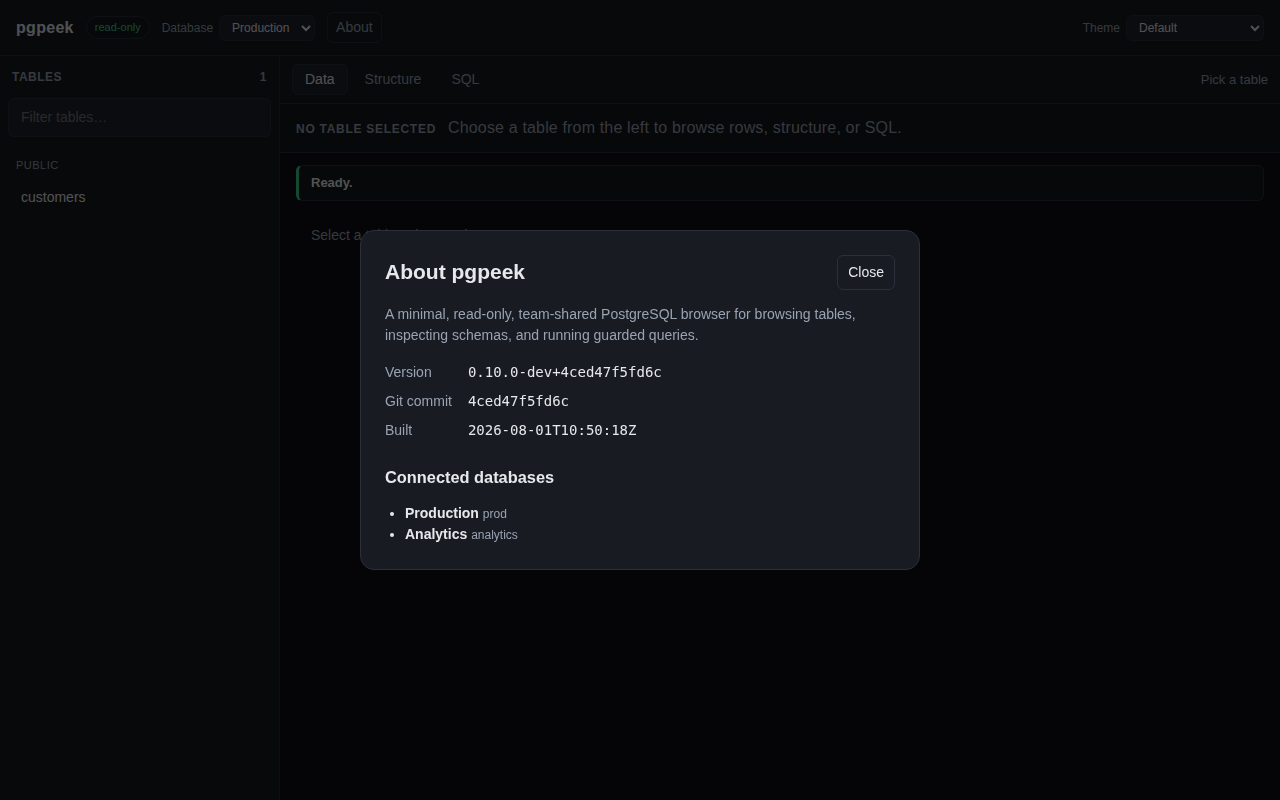
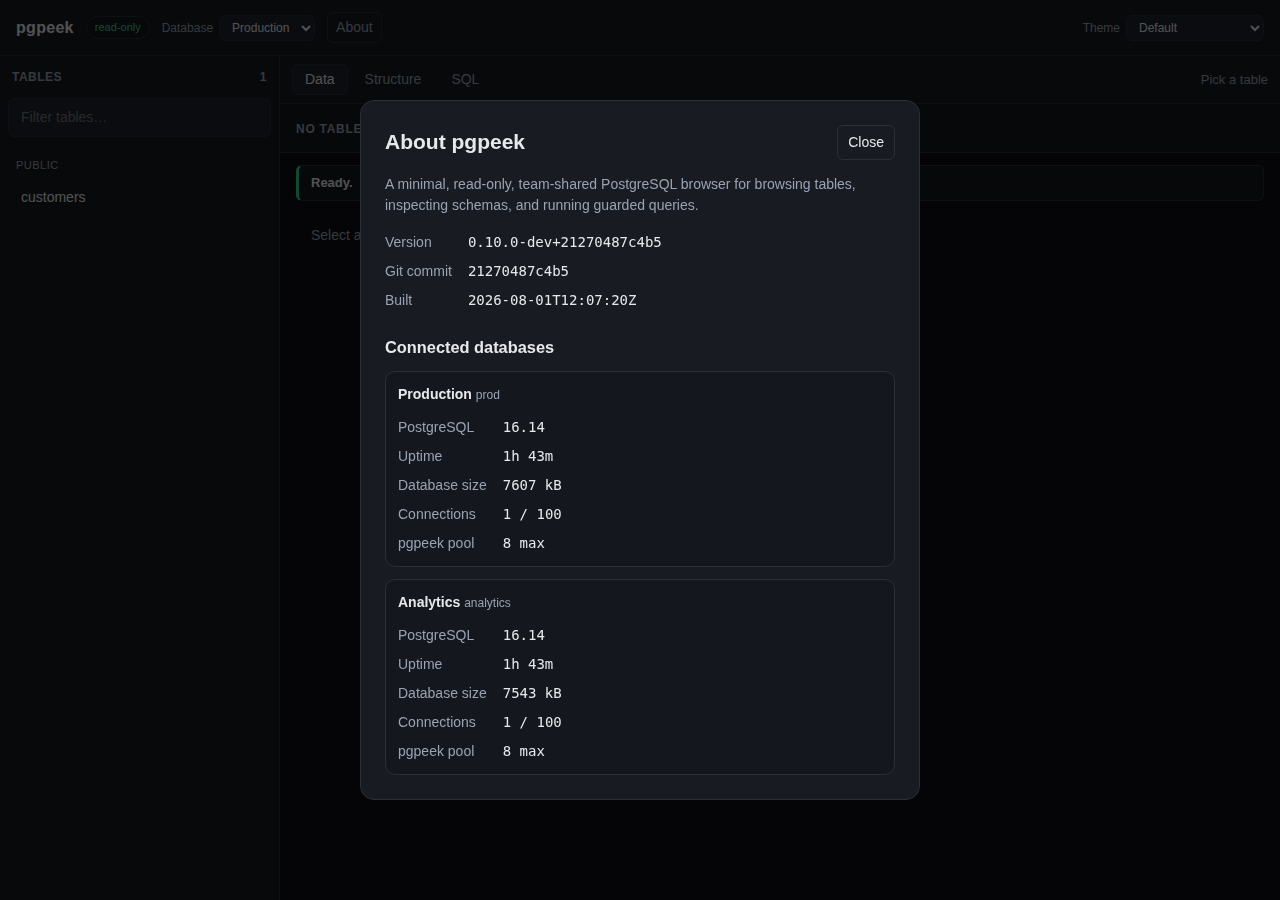
docs: document database runtime details

diff --git a/README.md b/README.md
@@ -450,7 +450,7 @@ Two ways:
 
 | Method & path                                 | Purpose                                        |
 | --------------------------------------------- | ---------------------------------------------- |
-| `GET /api/databases`                          | List configured databases → `{defaultId, databases:[{id,name}]}`. |
+| `GET /api/databases`                          | List configured databases with safe runtime details (version, uptime, size, and connection limits). |
 | `GET /api/user`                               | Current detected user (`anonymous` or Cloudflare Access email).    |
 | `POST /api/query?db=<id>`                     | Run a query → JSON `{columns, rows, …}`.       |
 | `POST /api/export?db=<id>`                    | Run a query → CSV download.                    |

diff --git a/DESIGN.md b/DESIGN.md
@@ -167,6 +167,9 @@ metadata and safe database display metadata only; connection strings never
 appear. Native dialog semantics provide focus containment, Escape handling,
 and focus restoration. The backdrop closes on direct click and the explicit
 Close action uses the standard hover, pressed, and focus-visible states.
+Each connected database uses a nested token-driven card for version, uptime,
+database size, server connections, and pgpeek pool capacity. These cards stack
+in one column so long values remain readable at every viewport.
 
 ### Data tables
 - Scrollable wrapper (`.table-wrap`): `overflow-x: auto`, `--r-xl` radius, `--c-border` border.
